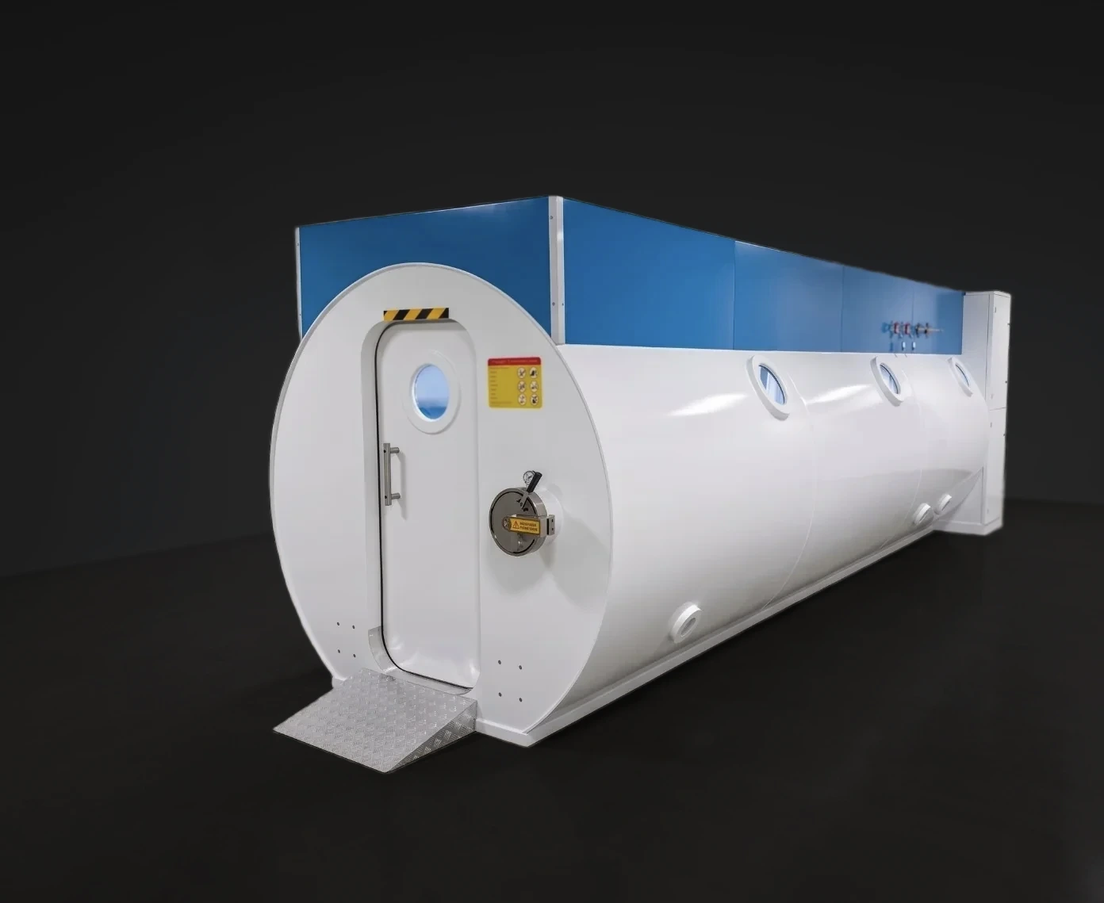
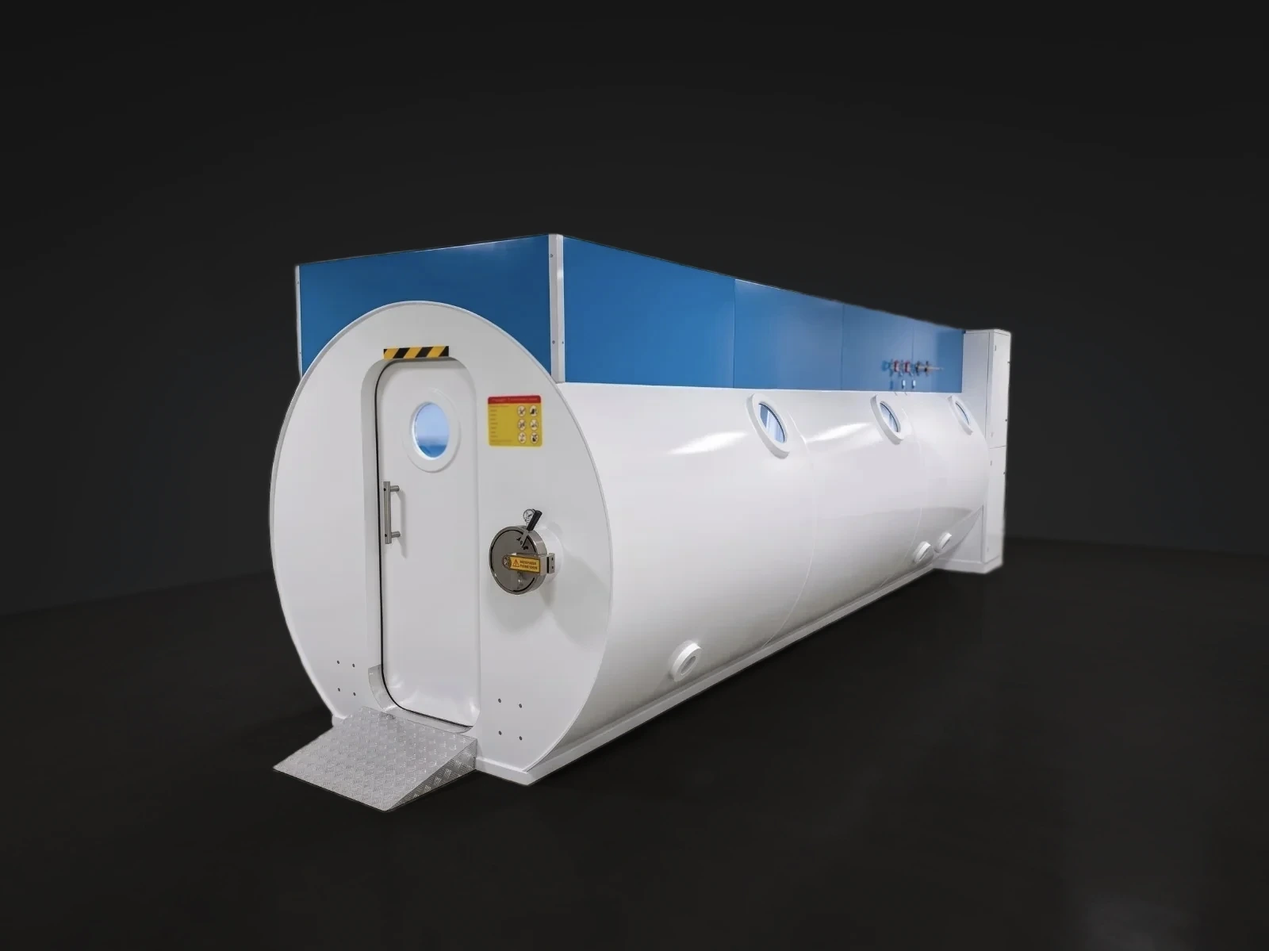
Fix: Geneva hero fotoğrafı homepage'de aşırı zoom/kırpılmış görünüyordu
Bir önceki commit'te fotoğrafı sağdan kırpmıştım (16:9 model sayfası
kutusuna göre). Bu, fotoğrafı orantısal olarak daha dar/uzun yaptı — ana
sayfadaki hero banner ise tam viewport genişliğinde çok daha GENİŞ bir
oranda (background-size:cover), bu yüzden o dar fotoğrafı o kadar geniş
kutuya sığdırmak için üstten/alttan çok agresif kırpması gerekiyordu.
Sonuç: kabin ucu ve koyu arka plan neredeyse tamamen kayboluyor, sadece
gövdenin aşırı yakınlaştırılmış bir dilimi görünüyordu — kullanıcı haklı
olarak "çok kötü" dedi.

Kırpmayı geri aldım, orijinal 1600x1199 oranı korundu (sadece koyulaştırma
+ blur kaldı). Hem model sayfasının 16:9 kutusunda hem de ana sayfa hero
banner'ında (1440x900, 1920x1080, ultra geniş 2560x1080 simüle edildi)
kabinin tamamı ve koyu arka plan doğru görünüyor.

Ders: paylaşılan bir görseli TEK bir kullanım yerine göre kırpmadan önce
TÜM kullanım yerlerini (bu dosya 7 sayfada, biri tam farklı bir en-boy
oranında) kontrol etmem gerekiyordu — geçen sefer sadece model sayfasını
simüle ettim.

Changed region(s): [[0.1853, 0.2151, 0.9267, 0.8604]]

diff --git a/site/model-geneva.html b/site/model-geneva.html
@@ -9,13 +9,13 @@
 <meta property="og:site_name" content="HBOT Chamber Tech" />
 <meta property="og:title" content="Geneva | HBOT Chamber Tech" />
 <meta property="og:description" content="Hastane sınıfı, altı ve üzeri kişilik büyük kapasiteli hiperbarik oksijen odası." />
-<meta property="og:image" content="https://hbotchambertech.com/assets/img/models/real/apex-nexus.webp?v=3" />
+<meta property="og:image" content="https://hbotchambertech.com/assets/img/models/real/apex-nexus.webp?v=4" />
 <meta property="og:url" content="https://hbotchambertech.com/model-geneva.html" />
 <link rel="canonical" href="https://hbotchambertech.com/model-geneva.html" />
 <meta name="twitter:card" content="summary_large_image" />
 <meta name="twitter:title" content="Geneva | HBOT Chamber Tech" />
 <meta name="twitter:description" content="Hastane sınıfı, altı ve üzeri kişilik büyük kapasiteli hiperbarik oksijen odası." />
-<meta name="twitter:image" content="https://hbotchambertech.com/assets/img/models/real/apex-nexus.webp?v=3" />
+<meta name="twitter:image" content="https://hbotchambertech.com/assets/img/models/real/apex-nexus.webp?v=4" />
 <link rel="icon" type="image/png" href="/assets/img/logo-icon.png" />
 <link rel="icon" type="image/png" sizes="32x32" href="/assets/img/favicon-32.png" />
 <link rel="icon" type="image/png" sizes="48x48" href="/assets/img/favicon-48.png" />
@@ -34,7 +34,7 @@
 {"@context": "https://schema.org", "@type": "Organization", "name": "HBOT Chamber Tech", "url": "https://hbotchambertech.com", "logo": "https://hbotchambertech.com/assets/img/logo-header.png", "description": "HBOT Chamber Tech; Almita Group çatısı altında 2007'den bu yana süregelen mühendislik deneyimiyle, IoT bağlantılı, yapay zeka destekli hiperbarik oksijen odaları üreten öncü bir markadır.", "email": "info@hbotchambertech.com", "telephone": "+90 850 888 1679", "address": {"@type": "PostalAddress", "streetAddress": "Postane Mh. Rauf Orbay Cd. Kemal Sunal Sk. No: 29", "addressLocality": "Tuzla / İstanbul", "addressCountry": "TR"}, "sameAs": ["https://almitagroup.com"], "parentOrganization": {"@type": "Organization", "name": "Almita Group", "url": "https://almitagroup.com"}, "inLanguage": "tr"}
 </script>
 <script type="application/ld+json">
-{"@context": "https://schema.org", "@type": "Product", "name": "Geneva", "description": "Hastane sınıfı, altı ve üzeri kişilik büyük kapasiteli hiperbarik oksijen odası.", "image": "https://hbotchambertech.com/assets/img/models/real/apex-nexus.webp?v=3", "brand": {"@type": "Brand", "name": "HBOT Chamber Tech"}, "manufacturer": {"@type": "Organization", "name": "HBOT Chamber Tech"}, "offers": {"@type": "Offer", "url": "https://hbotchambertech.com/model-geneva.html", "priceCurrency": "EUR", "price": 259900, "availability": "https://schema.org/InStock", "itemCondition": "https://schema.org/NewCondition"}, "inLanguage": "tr", "url": "https://hbotchambertech.com/model-geneva.html"}
+{"@context": "https://schema.org", "@type": "Product", "name": "Geneva", "description": "Hastane sınıfı, altı ve üzeri kişilik büyük kapasiteli hiperbarik oksijen odası.", "image": "https://hbotchambertech.com/assets/img/models/real/apex-nexus.webp?v=4", "brand": {"@type": "Brand", "name": "HBOT Chamber Tech"}, "manufacturer": {"@type": "Organization", "name": "HBOT Chamber Tech"}, "offers": {"@type": "Offer", "url": "https://hbotchambertech.com/model-geneva.html", "priceCurrency": "EUR", "price": 259900, "availability": "https://schema.org/InStock", "itemCondition": "https://schema.org/NewCondition"}, "inLanguage": "tr", "url": "https://hbotchambertech.com/model-geneva.html"}
 </script>
 </head>
 <body data-page="model-nexus" data-model="nexus">
@@ -65,7 +65,7 @@
           <img class="nav-model-thumb" src="/assets/img/models/real/milan-cream.webp?v=2" alt="" loading="lazy">
           <span>Milano</span>
         </a><a href="model-geneva.html" class="dropdown-link" data-model-key="nexus">
-          <img class="nav-model-thumb" src="/assets/img/models/real/apex-nexus.webp?v=3" alt="" loading="lazy">
+          <img class="nav-model-thumb" src="/assets/img/models/real/apex-nexus.webp?v=4" alt="" loading="lazy">
           <span>Geneva</span>
         </a></div>
       </div>
@@ -117,7 +117,7 @@
       <span class="eyebrow" data-i18n="modelNexus.eyebrow">GENEVA</span>
       <h1 data-i18n="modelNexus.title">Geneva</h1>
       <p data-i18n="modelNexus.tagline">Hastane sınıfı, büyük kapasiteli çözüm.</p>
-      <img class="model-hero-photo" src="/assets/img/models/real/apex-nexus.webp?v=3" alt="Geneva" />
+      <img class="model-hero-photo" src="/assets/img/models/real/apex-nexus.webp?v=4" alt="Geneva" />
     </div>
   </section>
 
@@ -140,7 +140,7 @@
   <section class="section section--brand-film" id="geneva-film">
     <div class="container brand-film-grid">
       <div class="brand-film-media">
-        <video controls playsinline preload="metadata" poster="/assets/img/models/real/apex-nexus.webp?v=3" aria-label="Geneva HBOT kabini ürün filmi">
+        <video controls playsinline preload="metadata" poster="/assets/img/models/real/apex-nexus.webp?v=4" aria-label="Geneva HBOT kabini ürün filmi">
           <source src="/assets/video/geneva-model-film-en.mp4?v=2" type="video/mp4">
         </video>
         <span class="brand-film-badge">GENEVA · PRODUCT FILM</span>

diff --git a/site/ru/model-geneva.html b/site/ru/model-geneva.html
@@ -9,13 +9,13 @@
 <meta property="og:site_name" content="HBOT Chamber Tech" />
 <meta property="og:title" content="Geneva | HBOT Chamber Tech" />
 <meta property="og:description" content="Гипербарическая камера госпитального класса большой вместимости на 6 и более человек." />
-<meta property="og:image" content="https://hbotchambertech.com/assets/img/models/real/apex-nexus.webp?v=3" />
+<meta property="og:image" content="https://hbotchambertech.com/assets/img/models/real/apex-nexus.webp?v=4" />
 <meta property="og:url" content="https://hbotchambertech.com/ru/model-geneva.html" />
 <link rel="canonical" href="https://hbotchambertech.com/ru/model-geneva.html" />
 <meta name="twitter:card" content="summary_large_image" />
 <meta name="twitter:title" content="Geneva | HBOT Chamber Tech" />
 <meta name="twitter:description" content="Гипербарическая камера госпитального класса большой вместимости на 6 и более человек." />
-<meta name="twitter:image" content="https://hbotchambertech.com/assets/img/models/real/apex-nexus.webp?v=3" />
+<meta name="twitter:image" content="https://hbotchambertech.com/assets/img/models/real/apex-nexus.webp?v=4" />
 <link rel="icon" type="image/png" href="/assets/img/logo-icon.png" />
 <link rel="icon" type="image/png" sizes="32x32" href="/assets/img/favicon-32.png" />
 <link rel="icon" type="image/png" sizes="48x48" href="/assets/img/favicon-48.png" />
@@ -34,7 +34,7 @@
 {"@context": "https://schema.org", "@type": "Organization", "name": "HBOT Chamber Tech", "url": "https://hbotchambertech.com/ru/model-geneva.html", "logo": "https://hbotchambertech.com/assets/img/logo-header.png", "description": "Гипербарическая камера госпитального класса большой вместимости на 6 и более человек.", "email": "info@hbotchambertech.com", "telephone": "+90 850 888 1679", "address": {"@type": "PostalAddress", "streetAddress": "Postane Mh. Rauf Orbay Cd. Kemal Sunal Sk. No: 29", "addressLocality": "Tuzla / İstanbul", "addressCountry": "TR"}, "sameAs": ["https://almitagroup.com"], "parentOrganization": {"@type": "Organization", "name": "Almita Group", "url": "https://almitagroup.com"}, "inLanguage": "ru"}
 </script>
 <script type="application/ld+json">
-{"@context": "https://schema.org", "@type": "Product", "name": "Geneva", "description": "Гипербарическая камера госпитального класса большой вместимости на 6 и более человек.", "image": "https://hbotchambertech.com/assets/img/models/real/apex-nexus.webp?v=3", "brand": {"@type": "Brand", "name": "HBOT Chamber Tech"}, "manufacturer": {"@type": "Organization", "name": "HBOT Chamber Tech"}, "offers": {"@type": "Offer", "url": "https://hbotchambertech.com/ru/model-geneva.html", "priceCurrency": "EUR", "price": 259900, "availability": "https://schema.org/InStock", "itemCondition": "https://schema.org/NewCondition"}, "inLanguage": "ru", "url": "https://hbotchambertech.com/ru/model-geneva.html"}
+{"@context": "https://schema.org", "@type": "Product", "name": "Geneva", "description": "Гипербарическая камера госпитального класса большой вместимости на 6 и более человек.", "image": "https://hbotchambertech.com/assets/img/models/real/apex-nexus.webp?v=4", "brand": {"@type": "Brand", "name": "HBOT Chamber Tech"}, "manufacturer": {"@type": "Organization", "name": "HBOT Chamber Tech"}, "offers": {"@type": "Offer", "url": "https://hbotchambertech.com/ru/model-geneva.html", "priceCurrency": "EUR", "price": 259900, "availability": "https://schema.org/InStock", "itemCondition": "https://schema.org/NewCondition"}, "inLanguage": "ru", "url": "https://hbotchambertech.com/ru/model-geneva.html"}
 </script>
 </head>
 <body data-page="model-nexus" data-model="nexus">
@@ -117,7 +117,7 @@
       <span class="eyebrow" data-i18n="modelNexus.eyebrow">GENEVA</span>
       <h1 data-i18n="modelNexus.title">Geneva</h1>
       <p data-i18n="modelNexus.tagline">Решение госпитального класса большой вместимости.</p>
-      <img class="model-hero-photo" src="/assets/img/models/real/apex-nexus.webp?v=3" alt="Geneva" />
+      <img class="model-hero-photo" src="/assets/img/models/real/apex-nexus.webp?v=4" alt="Geneva" />
     </div>
   </section>
 

diff --git a/site/ar/model-geneva.html b/site/ar/model-geneva.html
@@ -9,13 +9,13 @@
 <meta property="og:site_name" content="HBOT Chamber Tech" />
 <meta property="og:title" content="Geneva | HBOT Chamber Tech" />
 <meta property="og:description" content="غرفة أكسجين عالي الضغط بمستوى المستشفيات وسعة كبيرة لستة أشخاص أو أكثر." />
-<meta property="og:image" content="https://hbotchambertech.com/assets/img/models/real/apex-nexus.webp?v=3" />
+<meta property="og:image" content="https://hbotchambertech.com/assets/img/models/real/apex-nexus.webp?v=4" />
 <meta property="og:url" content="https://hbotchambertech.com/ar/model-geneva.html" />
 <link rel="canonical" href="https://hbotchambertech.com/ar/model-geneva.html" />
 <meta name="twitter:card" content="summary_large_image" />
 <meta name="twitter:title" content="Geneva | HBOT Chamber Tech" />
 <meta name="twitter:description" content="غرفة أكسجين عالي الضغط بمستوى المستشفيات وسعة كبيرة لستة أشخاص أو أكثر." />
-<meta name="twitter:image" content="https://hbotchambertech.com/assets/img/models/real/apex-nexus.webp?v=3" />
+<meta name="twitter:image" content="https://hbotchambertech.com/assets/img/models/real/apex-nexus.webp?v=4" />
 <link rel="icon" type="image/png" href="/assets/img/logo-icon.png" />
 <link rel="icon" type="image/png" sizes="32x32" href="/assets/img/favicon-32.png" />
 <link rel="icon" type="image/png" sizes="48x48" href="/assets/img/favicon-48.png" />
@@ -34,7 +34,7 @@
 {"@context": "https://schema.org", "@type": "Organization", "name": "HBOT Chamber Tech", "url": "https://hbotchambertech.com/ar/model-geneva.html", "logo": "https://hbotchambertech.com/assets/img/logo-header.png", "description": "غرفة أكسجين عالي الضغط بمستوى المستشفيات وسعة كبيرة لستة أشخاص أو أكثر.", "email": "info@hbotchambertech.com", "telephone": "+90 850 888 1679", "address": {"@type": "PostalAddress", "streetAddress": "Postane Mh. Rauf Orbay Cd. Kemal Sunal Sk. No: 29", "addressLocality": "Tuzla / İstanbul", "addressCountry": "TR"}, "sameAs": ["https://almitagroup.com"], "parentOrganization": {"@type": "Organization", "name": "Almita Group", "url": "https://almitagroup.com"}, "inLanguage": "ar"}
 </script>
 <script type="application/ld+json">
-{"@context": "https://schema.org", "@type": "Product", "name": "Geneva", "description": "غرفة أكسجين عالي الضغط بمستوى المستشفيات وسعة كبيرة لستة أشخاص أو أكثر.", "image": "https://hbotchambertech.com/assets/img/models/real/apex-nexus.webp?v=3", "brand": {"@type": "Brand", "name": "HBOT Chamber Tech"}, "manufacturer": {"@type": "Organization", "name": "HBOT Chamber Tech"}, "offers": {"@type": "Offer", "url": "https://hbotchambertech.com/ar/model-geneva.html", "priceCurrency": "EUR", "price": 259900, "availability": "https://schema.org/InStock", "itemCondition": "https://schema.org/NewCondition"}, "inLanguage": "ar", "url": "https://hbotchambertech.com/ar/model-geneva.html"}
+{"@context": "https://schema.org", "@type": "Product", "name": "Geneva", "description": "غرفة أكسجين عالي الضغط بمستوى المستشفيات وسعة كبيرة لستة أشخاص أو أكثر.", "image": "https://hbotchambertech.com/assets/img/models/real/apex-nexus.webp?v=4", "brand": {"@type": "Brand", "name": "HBOT Chamber Tech"}, "manufacturer": {"@type": "Organization", "name": "HBOT Chamber Tech"}, "offers": {"@type": "Offer", "url": "https://hbotchambertech.com/ar/model-geneva.html", "priceCurrency": "EUR", "price": 259900, "availability": "https://schema.org/InStock", "itemCondition": "https://schema.org/NewCondition"}, "inLanguage": "ar", "url": "https://hbotchambertech.com/ar/model-geneva.html"}
 </script>
 </head>
 <body data-page="model-nexus" data-model="nexus">
@@ -117,7 +117,7 @@
       <span class="eyebrow" data-i18n="modelNexus.eyebrow">GENEVA</span>
       <h1 data-i18n="modelNexus.title">Geneva</h1>
       <p data-i18n="modelNexus.tagline">حل بمستوى المستشفيات وسعة كبيرة.</p>
-      <img class="model-hero-photo" src="/assets/img/models/real/apex-nexus.webp?v=3" alt="Geneva" />
+      <img class="model-hero-photo" src="/assets/img/models/real/apex-nexus.webp?v=4" alt="Geneva" />
     </div>
   </section>
 

diff --git a/site/de/model-geneva.html b/site/de/model-geneva.html
@@ -9,13 +9,13 @@
 <meta property="og:site_name" content="HBOT Chamber Tech" />
 <meta property="og:title" content="Geneva | HBOT Chamber Tech" />
 <meta property="og:description" content="Eine hyperbare Sauerstoffkammer in Krankenhausqualität mit großer Kapazität für sechs oder mehr Personen." />
-<meta property="og:image" content="https://hbotchambertech.com/assets/img/models/real/apex-nexus.webp?v=3" />
+<meta property="og:image" content="https://hbotchambertech.com/assets/img/models/real/apex-nexus.webp?v=4" />
 <meta property="og:url" content="https://hbotchambertech.com/de/model-geneva.html" />
 <link rel="canonical" href="https://hbotchambertech.com/de/model-geneva.html" />
 <meta name="twitter:card" content="summary_large_image" />
 <meta name="twitter:title" content="Geneva | HBOT Chamber Tech" />
 <meta name="twitter:description" content="Eine hyperbare Sauerstoffkammer in Krankenhausqualität mit großer Kapazität für sechs oder mehr Personen." />
-<meta name="twitter:image" content="https://hbotchambertech.com/assets/img/models/real/apex-nexus.webp?v=3" />
+<meta name="twitter:image" content="https://hbotchambertech.com/assets/img/models/real/apex-nexus.webp?v=4" />
 <link rel="icon" type="image/png" href="/assets/img/logo-icon.png" />
 <link rel="icon" type="image/png" sizes="32x32" href="/assets/img/favicon-32.png" />
 <link rel="icon" type="image/png" sizes="48x48" href="/assets/img/favicon-48.png" />
@@ -34,7 +34,7 @@
 {"@context": "https://schema.org", "@type": "Organization", "name": "HBOT Chamber Tech", "url": "https://hbotchambertech.com/de/model-geneva.html", "logo": "https://hbotchambertech.com/assets/img/logo-header.png", "description": "Eine hyperbare Sauerstoffkammer in Krankenhausqualität mit großer Kapazität für sechs oder mehr Personen.", "email": "info@hbotchambertech.com", "telephone": "+90 850 888 1679", "address": {"@type": "PostalAddress", "streetAddress": "Postane Mh. Rauf Orbay Cd. Kemal Sunal Sk. No: 29", "addressLocality": "Tuzla / İstanbul", "addressCountry": "TR"}, "sameAs": ["https://almitagroup.com"], "parentOrganization": {"@type": "Organization", "name": "Almita Group", "url": "https://almitagroup.com"}, "inLanguage": "de"}
 </script>
 <script type="application/ld+json">
-{"@context": "https://schema.org", "@type": "Product", "name": "Geneva", "description": "Eine hyperbare Sauerstoffkammer in Krankenhausqualität mit großer Kapazität für sechs oder mehr Personen.", "image": "https://hbotchambertech.com/assets/img/models/real/apex-nexus.webp?v=3", "brand": {"@type": "Brand", "name": "HBOT Chamber Tech"}, "manufacturer": {"@type": "Organization", "name": "HBOT Chamber Tech"}, "offers": {"@type": "Offer", "url": "https://hbotchambertech.com/de/model-geneva.html", "priceCurrency": "EUR", "price": 259900, "availability": "https://schema.org/InStock", "itemCondition": "https://schema.org/NewCondition"}, "inLanguage": "de", "url": "https://hbotchambertech.com/de/model-geneva.html"}
+{"@context": "https://schema.org", "@type": "Product", "name": "Geneva", "description": "Eine hyperbare Sauerstoffkammer in Krankenhausqualität mit großer Kapazität für sechs oder mehr Personen.", "image": "https://hbotchambertech.com/assets/img/models/real/apex-nexus.webp?v=4", "brand": {"@type": "Brand", "name": "HBOT Chamber Tech"}, "manufacturer": {"@type": "Organization", "name": "HBOT Chamber Tech"}, "offers": {"@type": "Offer", "url": "https://hbotchambertech.com/de/model-geneva.html", "priceCurrency": "EUR", "price": 259900, "availability": "https://schema.org/InStock", "itemCondition": "https://schema.org/NewCondition"}, "inLanguage": "de", "url": "https://hbotchambertech.com/de/model-geneva.html"}
 </script>
 </head>
 <body data-page="model-nexus" data-model="nexus">
@@ -117,7 +117,7 @@
       <span class="eyebrow" data-i18n="modelNexus.eyebrow">GENEVA</span>
       <h1 data-i18n="modelNexus.title">Geneva</h1>
       <p data-i18n="modelNexus.tagline">Eine großvolumige Lösung in Krankenhausqualität.</p>
-      <img class="model-hero-photo" src="/assets/img/models/real/apex-nexus.webp?v=3" alt="Geneva" />
+      <img class="model-hero-photo" src="/assets/img/models/real/apex-nexus.webp?v=4" alt="Geneva" />
     </div>
   </section>
 

diff --git a/site/pt/model-geneva.html b/site/pt/model-geneva.html
@@ -9,13 +9,13 @@
 <meta property="og:site_name" content="HBOT Chamber Tech" />
 <meta property="og:title" content="Geneva | HBOT Chamber Tech" />
 <meta property="og:description" content="Uma câmara de oxigênio hiperbárico de grande capacidade e nível hospitalar para seis ou mais pessoas." />
-<meta property="og:image" content="https://hbotchambertech.com/assets/img/models/real/apex-nexus.webp?v=3" />
+<meta property="og:image" content="https://hbotchambertech.com/assets/img/models/real/apex-nexus.webp?v=4" />
 <meta property="og:url" content="https://hbotchambertech.com/pt/model-geneva.html" />
 <link rel="canonical" href="https://hbotchambertech.com/pt/model-geneva.html" />
 <meta name="twitter:card" content="summary_large_image" />
 <meta name="twitter:title" content="Geneva | HBOT Chamber Tech" />
 <meta name="twitter:description" content="Uma câmara de oxigênio hiperbárico de grande capacidade e nível hospitalar para seis ou mais pessoas." />
-<meta name="twitter:image" content="https://hbotchambertech.com/assets/img/models/real/apex-nexus.webp?v=3" />
+<meta name="twitter:image" content="https://hbotchambertech.com/assets/img/models/real/apex-nexus.webp?v=4" />
 <link rel="icon" type="image/png" href="/assets/img/logo-icon.png" />
 <link rel="icon" type="image/png" sizes="32x32" href="/assets/img/favicon-32.png" />
 <link rel="icon" type="image/png" sizes="48x48" href="/assets/img/favicon-48.png" />
@@ -34,7 +34,7 @@
 {"@context": "https://schema.org", "@type": "Organization", "name": "HBOT Chamber Tech", "url": "https://hbotchambertech.com/pt/model-geneva.html", "logo": "https://hbotchambertech.com/assets/img/logo-header.png", "description": "Uma câmara de oxigênio hiperbárico de grande capacidade e nível hospitalar para seis ou mais pessoas.", "email": "info@hbotchambertech.com", "telephone": "+90 850 888 1679", "address": {"@type": "PostalAddress", "streetAddress": "Postane Mh. Rauf Orbay Cd. Kemal Sunal Sk. No: 29", "addressLocality": "Tuzla / İstanbul", "addressCountry": "TR"}, "sameAs": ["https://almitagroup.com"], "parentOrganization": {"@type": "Organization", "name": "Almita Group", "url": "https://almitagroup.com"}, "inLanguage": "pt"}
 </script>
 <script type="application/ld+json">
-{"@context": "https://schema.org", "@type": "Product", "name": "Geneva", "description": "Uma câmara de oxigênio hiperbárico de grande capacidade e nível hospitalar para seis ou mais pessoas.", "image": "https://hbotchambertech.com/assets/img/models/real/apex-nexus.webp?v=3", "brand": {"@type": "Brand", "name": "HBOT Chamber Tech"}, "manufacturer": {"@type": "Organization", "name": "HBOT Chamber Tech"}, "offers": {"@type": "Offer", "url": "https://hbotchambertech.com/pt/model-geneva.html", "priceCurrency": "EUR", "price": 259900, "availability": "https://schema.org/InStock", "itemCondition": "https://schema.org/NewCondition"}, "inLanguage": "pt", "url": "https://hbotchambertech.com/pt/model-geneva.html"}
+{"@context": "https://schema.org", "@type": "Product", "name": "Geneva", "description": "Uma câmara de oxigênio hiperbárico de grande capacidade e nível hospitalar para seis ou mais pessoas.", "image": "https://hbotchambertech.com/assets/img/models/real/apex-nexus.webp?v=4", "brand": {"@type": "Brand", "name": "HBOT Chamber Tech"}, "manufacturer": {"@type": "Organization", "name": "HBOT Chamber Tech"}, "offers": {"@type": "Offer", "url": "https://hbotchambertech.com/pt/model-geneva.html", "priceCurrency": "EUR", "price": 259900, "availability": "https://schema.org/InStock", "itemCondition": "https://schema.org/NewCondition"}, "inLanguage": "pt", "url": "https://hbotchambertech.com/pt/model-geneva.html"}
 </script>
 </head>
 <body data-page="model-nexus" data-model="nexus">
@@ -117,7 +117,7 @@
       <span class="eyebrow" data-i18n="modelNexus.eyebrow">GENEVA</span>
       <h1 data-i18n="modelNexus.title">Geneva</h1>
       <p data-i18n="modelNexus.tagline">Uma solução de nível hospitalar e grande capacidade.</p>
-      <img class="model-hero-photo" src="/assets/img/models/real/apex-nexus.webp?v=3" alt="Geneva" />
+      <img class="model-hero-photo" src="/assets/img/models/real/apex-nexus.webp?v=4" alt="Geneva" />
     </div>
   </section>
 

diff --git a/site/es/model-geneva.html b/site/es/model-geneva.html
@@ -9,13 +9,13 @@
 <meta property="og:site_name" content="HBOT Chamber Tech" />
 <meta property="og:title" content="Geneva | HBOT Chamber Tech" />
 <meta property="og:description" content="Una cámara hiperbárica de oxígeno de nivel hospitalario y gran capacidad para seis o más personas." />
-<meta property="og:image" content="https://hbotchambertech.com/assets/img/models/real/apex-nexus.webp?v=3" />
+<meta property="og:image" content="https://hbotchambertech.com/assets/img/models/real/apex-nexus.webp?v=4" />
 <meta property="og:url" content="https://hbotchambertech.com/es/model-geneva.html" />
 <link rel="canonical" href="https://hbotchambertech.com/es/model-geneva.html" />
 <meta name="twitter:card" content="summary_large_image" />
 <meta name="twitter:title" content="Geneva | HBOT Chamber Tech" />
 <meta name="twitter:description" content="Una cámara hiperbárica de oxígeno de nivel hospitalario y gran capacidad para seis o más personas." />
-<meta name="twitter:image" content="https://hbotchambertech.com/assets/img/models/real/apex-nexus.webp?v=3" />
+<meta name="twitter:image" content="https://hbotchambertech.com/assets/img/models/real/apex-nexus.webp?v=4" />
 <link rel="icon" type="image/png" href="/assets/img/logo-icon.png" />
 <link rel="icon" type="image/png" sizes="32x32" href="/assets/img/favicon-32.png" />
 <link rel="icon" type="image/png" sizes="48x48" href="/assets/img/favicon-48.png" />
@@ -34,7 +34,7 @@
 {"@context": "https://schema.org", "@type": "Organization", "name": "HBOT Chamber Tech", "url": "https://hbotchambertech.com/es/model-geneva.html", "logo": "https://hbotchambertech.com/assets/img/logo-header.png", "description": "Una cámara hiperbárica de oxígeno de nivel hospitalario y gran capacidad para seis o más personas.", "email": "info@hbotchambertech.com", "telephone": "+90 850 888 1679", "address": {"@type": "PostalAddress", "streetAddress": "Postane Mh. Rauf Orbay Cd. Kemal Sunal Sk. No: 29", "addressLocality": "Tuzla / İstanbul", "addressCountry": "TR"}, "sameAs": ["https://almitagroup.com"], "parentOrganization": {"@type": "Organization", "name": "Almita Group", "url": "https://almitagroup.com"}, "inLanguage": "es"}
 </script>
 <script type="application/ld+json">
-{"@context": "https://schema.org", "@type": "Product", "name": "Geneva", "description": "Una cámara hiperbárica de oxígeno de nivel hospitalario y gran capacidad para seis o más personas.", "image": "https://hbotchambertech.com/assets/img/models/real/apex-nexus.webp?v=3", "brand": {"@type": "Brand", "name": "HBOT Chamber Tech"}, "manufacturer": {"@type": "Organization", "name": "HBOT Chamber Tech"}, "offers": {"@type": "Offer", "url": "https://hbotchambertech.com/es/model-geneva.html", "priceCurrency": "EUR", "price": 259900, "availability": "https://schema.org/InStock", "itemCondition": "https://schema.org/NewCondition"}, "inLanguage": "es", "url": "https://hbotchambertech.com/es/model-geneva.html"}
+{"@context": "https://schema.org", "@type": "Product", "name": "Geneva", "description": "Una cámara hiperbárica de oxígeno de nivel hospitalario y gran capacidad para seis o más personas.", "image": "https://hbotchambertech.com/assets/img/models/real/apex-nexus.webp?v=4", "brand": {"@type": "Brand", "name": "HBOT Chamber Tech"}, "manufacturer": {"@type": "Organization", "name": "HBOT Chamber Tech"}, "offers": {"@type": "Offer", "url": "https://hbotchambertech.com/es/model-geneva.html", "priceCurrency": "EUR", "price": 259900, "availability": "https://schema.org/InStock", "itemCondition": "https://schema.org/NewCondition"}, "inLanguage": "es", "url": "https://hbotchambertech.com/es/model-geneva.html"}
 </script>
 </head>
 <body data-page="model-nexus" data-model="nexus">
@@ -117,7 +117,7 @@
       <span class="eyebrow" data-i18n="modelNexus.eyebrow">GENEVA</span>
       <h1 data-i18n="modelNexus.title">Geneva</h1>
       <p data-i18n="modelNexus.tagline">Una solución de nivel hospitalario y gran capacidad.</p>
-      <img class="model-hero-photo" src="/assets/img/models/real/apex-nexus.webp?v=3" alt="Geneva" />
+      <img class="model-hero-photo" src="/assets/img/models/real/apex-nexus.webp?v=4" alt="Geneva" />
     </div>
   </section>
 

diff --git a/site/en/model-geneva.html b/site/en/model-geneva.html
@@ -9,13 +9,13 @@
 <meta property="og:site_name" content="HBOT Chamber Tech" />
 <meta property="og:title" content="Geneva | HBOT Chamber Tech" />
 <meta property="og:description" content="A hospital-grade, large-capacity hyperbaric oxygen chamber for six or more people." />
-<meta property="og:image" content="https://hbotchambertech.com/assets/img/models/real/apex-nexus.webp?v=3" />
+<meta property="og:image" content="https://hbotchambertech.com/assets/img/models/real/apex-nexus.webp?v=4" />
 <meta property="og:url" content="https://hbotchambertech.com/en/model-geneva.html" />
 <link rel="canonical" href="https://hbotchambertech.com/en/model-geneva.html" />
 <meta name="twitter:card" content="summary_large_image" />
 <meta name="twitter:title" content="Geneva | HBOT Chamber Tech" />
 <meta name="twitter:description" content="A hospital-grade, large-capacity hyperbaric oxygen chamber for six or more people." />
-<meta name="twitter:image" content="https://hbotchambertech.com/assets/img/models/real/apex-nexus.webp?v=3" />
+<meta name="twitter:image" content="https://hbotchambertech.com/assets/img/models/real/apex-nexus.webp?v=4" />
 <link rel="icon" type="image/png" href="/assets/img/logo-icon.png" />
 <link rel="icon" type="image/png" sizes="32x32" href="/assets/img/favicon-32.png" />
 <link rel="icon" type="image/png" sizes="48x48" href="/assets/img/favicon-48.png" />
@@ -34,7 +34,7 @@
 {"@context": "https://schema.org", "@type": "Organization", "name": "HBOT Chamber Tech", "url": "https://hbotchambertech.com/en/model-geneva.html", "logo": "https://hbotchambertech.com/assets/img/logo-header.png", "description": "A hospital-grade, large-capacity hyperbaric oxygen chamber for six or more people.", "email": "info@hbotchambertech.com", "telephone": "+90 850 888 1679", "address": {"@type": "PostalAddress", "streetAddress": "Postane Mh. Rauf Orbay Cd. Kemal Sunal Sk. No: 29", "addressLocality": "Tuzla / İstanbul", "addressCountry": "TR"}, "sameAs": ["https://almitagroup.com"], "parentOrganization": {"@type": "Organization", "name": "Almita Group", "url": "https://almitagroup.com"}, "inLanguage": "en"}
 </script>
 <script type="application/ld+json">
-{"@context": "https://schema.org", "@type": "Product", "name": "Geneva", "description": "A hospital-grade, large-capacity hyperbaric oxygen chamber for six or more people.", "image": "https://hbotchambertech.com/assets/img/models/real/apex-nexus.webp?v=3", "brand": {"@type": "Brand", "name": "HBOT Chamber Tech"}, "manufacturer": {"@type": "Organization", "name": "HBOT Chamber Tech"}, "offers": {"@type": "Offer", "url": "https://hbotchambertech.com/en/model-geneva.html", "priceCurrency": "EUR", "price": 259900, "availability": "https://schema.org/InStock", "itemCondition": "https://schema.org/NewCondition"}, "inLanguage": "en", "url": "https://hbotchambertech.com/en/model-geneva.html"}
+{"@context": "https://schema.org", "@type": "Product", "name": "Geneva", "description": "A hospital-grade, large-capacity hyperbaric oxygen chamber for six or more people.", "image": "https://hbotchambertech.com/assets/img/models/real/apex-nexus.webp?v=4", "brand": {"@type": "Brand", "name": "HBOT Chamber Tech"}, "manufacturer": {"@type": "Organization", "name": "HBOT Chamber Tech"}, "offers": {"@type": "Offer", "url": "https://hbotchambertech.com/en/model-geneva.html", "priceCurrency": "EUR", "price": 259900, "availability": "https://schema.org/InStock", "itemCondition": "https://schema.org/NewCondition"}, "inLanguage": "en", "url": "https://hbotchambertech.com/en/model-geneva.html"}
 </script>
 </head>
 <body data-page="model-nexus" data-model="nexus">
@@ -117,7 +117,7 @@
       <span class="eyebrow" data-i18n="modelNexus.eyebrow">GENEVA</span>
       <h1 data-i18n="modelNexus.title">Geneva</h1>
       <p data-i18n="modelNexus.tagline">A hospital-grade, large-capacity solution.</p>
-      <img class="model-hero-photo" src="/assets/img/models/real/apex-nexus.webp?v=3" alt="Geneva" />
+      <img class="model-hero-photo" src="/assets/img/models/real/apex-nexus.webp?v=4" alt="Geneva" />
     </div>
   </section>
 

diff --git a/site/index.html b/site/index.html
@@ -63,7 +63,7 @@
           <img class="nav-model-thumb" src="/assets/img/models/real/milan-cream.webp?v=2" alt="" loading="lazy">
           <span>Milano</span>
         </a><a href="model-geneva.html" class="dropdown-link" data-model-key="nexus">
-          <img class="nav-model-thumb" src="/assets/img/models/real/apex-nexus.webp?v=3" alt="" loading="lazy">
+          <img class="nav-model-thumb" src="/assets/img/models/real/apex-nexus.webp?v=4" alt="" loading="lazy">
           <span>Geneva</span>
         </a></div>
       </div>
@@ -112,7 +112,7 @@
     <div class="hero-slides" id="hero-slides">
       <div class="hero-slide is-active" style="background-image:url('/assets/img/models/real/apex-lounge-real.webp?v=2')" data-caption="modelShort.soloLounge.title"></div>
       <div class="hero-slide" data-bg="/assets/img/models/real/apex-duo-real.webp?v=2" data-caption="modelShort.duo.title"></div>
-      <div class="hero-slide" data-bg="/assets/img/models/real/apex-nexus.webp?v=3" data-caption="modelShort.nexus.title"></div>
+      <div class="hero-slide" data-bg="/assets/img/models/real/apex-nexus.webp?v=4" data-caption="modelShort.nexus.title"></div>
       <div class="hero-slide" data-bg="/assets/img/models/real/apex-quad-cube-2.webp?v=2" data-caption="modelShort.quadCube.title"></div>
     </div>
     <div class="hero-overlay"></div>
@@ -291,7 +291,7 @@
         </article>
       
         <article class="sector-card">
-          <img class="sector-card-img" src="/assets/img/models/real/apex-nexus.webp?v=3" alt="Geneva" loading="lazy">
+          <img class="sector-card-img" src="/assets/img/models/real/apex-nexus.webp?v=4" alt="Geneva" loading="lazy">
           <h3>Geneva</h3>
           <span class="sector-tagline">6+ Kişi · Oturma Pozisyonu</span>
           <p>Sağlık kurumları için hastane sınıfı, büyük kapasiteli, modüler genişlemeye hazır kabin.</p>

diff --git a/site/modeller.html b/site/modeller.html
@@ -62,7 +62,7 @@
           <img class="nav-model-thumb" src="/assets/img/models/real/milan-cream.webp?v=2" alt="" loading="lazy">
           <span>Milano</span>
         </a><a href="model-geneva.html" class="dropdown-link" data-model-key="nexus">
-          <img class="nav-model-thumb" src="/assets/img/models/real/apex-nexus.webp?v=3" alt="" loading="lazy">
+          <img class="nav-model-thumb" src="/assets/img/models/real/apex-nexus.webp?v=4" alt="" loading="lazy">
           <span>Geneva</span>
         </a></div>
       </div>
@@ -164,7 +164,7 @@
         </article>
       
         <article class="sector-card">
-          <img class="sector-card-img" src="/assets/img/models/real/apex-nexus.webp?v=3" alt="Geneva" loading="lazy">
+          <img class="sector-card-img" src="/assets/img/models/real/apex-nexus.webp?v=4" alt="Geneva" loading="lazy">
           <h3>Geneva</h3>
           <span class="sector-tagline">6+ Kişi · Oturma Pozisyonu</span>
           <p>Sağlık kurumları için hastane sınıfı, büyük kapasiteli, modüler genişlemeye hazır kabin.</p>

diff --git a/site/ar/index.html b/site/ar/index.html
@@ -112,7 +112,7 @@
     <div class="hero-slides" id="hero-slides">
       <div class="hero-slide is-active" style="background-image:url('/assets/img/models/real/apex-lounge-real.webp?v=2')" data-caption="modelShort.soloLounge.title"></div>
       <div class="hero-slide" data-bg="/assets/img/models/real/apex-duo-real.webp?v=2" data-caption="modelShort.duo.title"></div>
-      <div class="hero-slide" data-bg="/assets/img/models/real/apex-nexus.webp?v=3" data-caption="modelShort.nexus.title"></div>
+      <div class="hero-slide" data-bg="/assets/img/models/real/apex-nexus.webp?v=4" data-caption="modelShort.nexus.title"></div>
       <div class="hero-slide" data-bg="/assets/img/models/real/apex-quad-cube-2.webp?v=2" data-caption="modelShort.quadCube.title"></div>
     </div>
     <div class="hero-overlay"></div>

diff --git a/site/de/index.html b/site/de/index.html
@@ -112,7 +112,7 @@
     <div class="hero-slides" id="hero-slides">
       <div class="hero-slide is-active" style="background-image:url('/assets/img/models/real/apex-lounge-real.webp?v=2')" data-caption="modelShort.soloLounge.title"></div>
       <div class="hero-slide" data-bg="/assets/img/models/real/apex-duo-real.webp?v=2" data-caption="modelShort.duo.title"></div>
-      <div class="hero-slide" data-bg="/assets/img/models/real/apex-nexus.webp?v=3" data-caption="modelShort.nexus.title"></div>
+      <div class="hero-slide" data-bg="/assets/img/models/real/apex-nexus.webp?v=4" data-caption="modelShort.nexus.title"></div>
       <div class="hero-slide" data-bg="/assets/img/models/real/apex-quad-cube-2.webp?v=2" data-caption="modelShort.quadCube.title"></div>
     </div>
     <div class="hero-overlay"></div>

diff --git a/site/en/index.html b/site/en/index.html
@@ -112,7 +112,7 @@
     <div class="hero-slides" id="hero-slides">
       <div class="hero-slide is-active" style="background-image:url('/assets/img/models/real/apex-lounge-real.webp?v=2')" data-caption="modelShort.soloLounge.title"></div>
       <div class="hero-slide" data-bg="/assets/img/models/real/apex-duo-real.webp?v=2" data-caption="modelShort.duo.title"></div>
-      <div class="hero-slide" data-bg="/assets/img/models/real/apex-nexus.webp?v=3" data-caption="modelShort.nexus.title"></div>
+      <div class="hero-slide" data-bg="/assets/img/models/real/apex-nexus.webp?v=4" data-caption="modelShort.nexus.title"></div>
       <div class="hero-slide" data-bg="/assets/img/models/real/apex-quad-cube-2.webp?v=2" data-caption="modelShort.quadCube.title"></div>
     </div>
     <div class="hero-overlay"></div>
